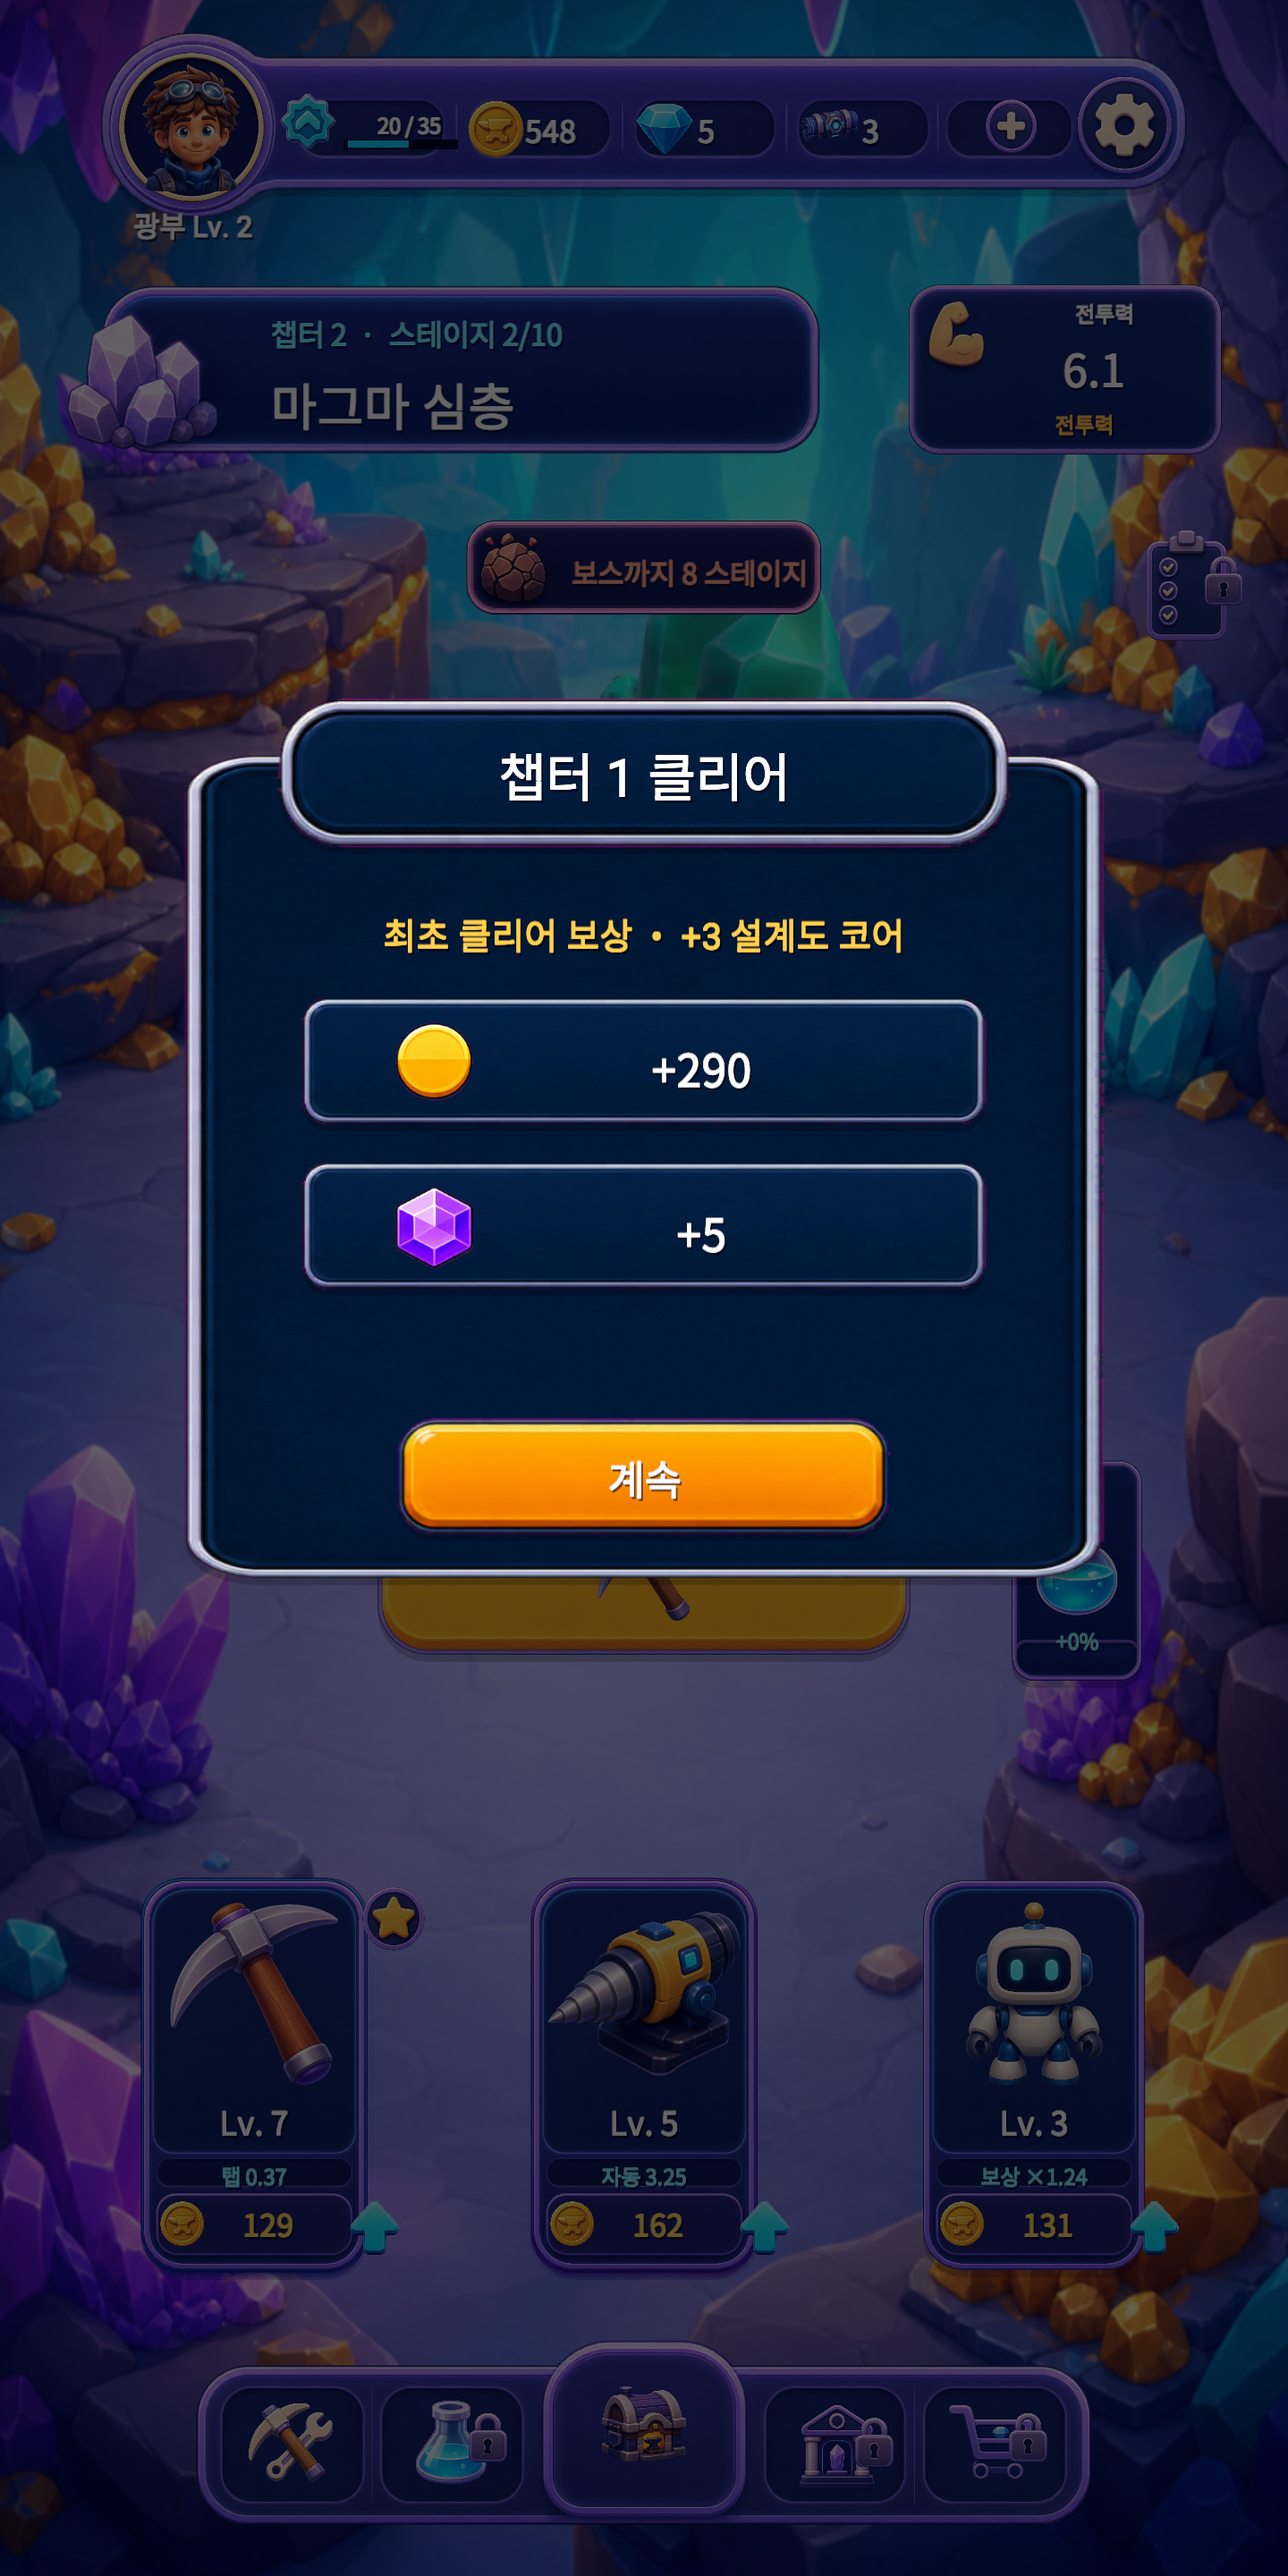
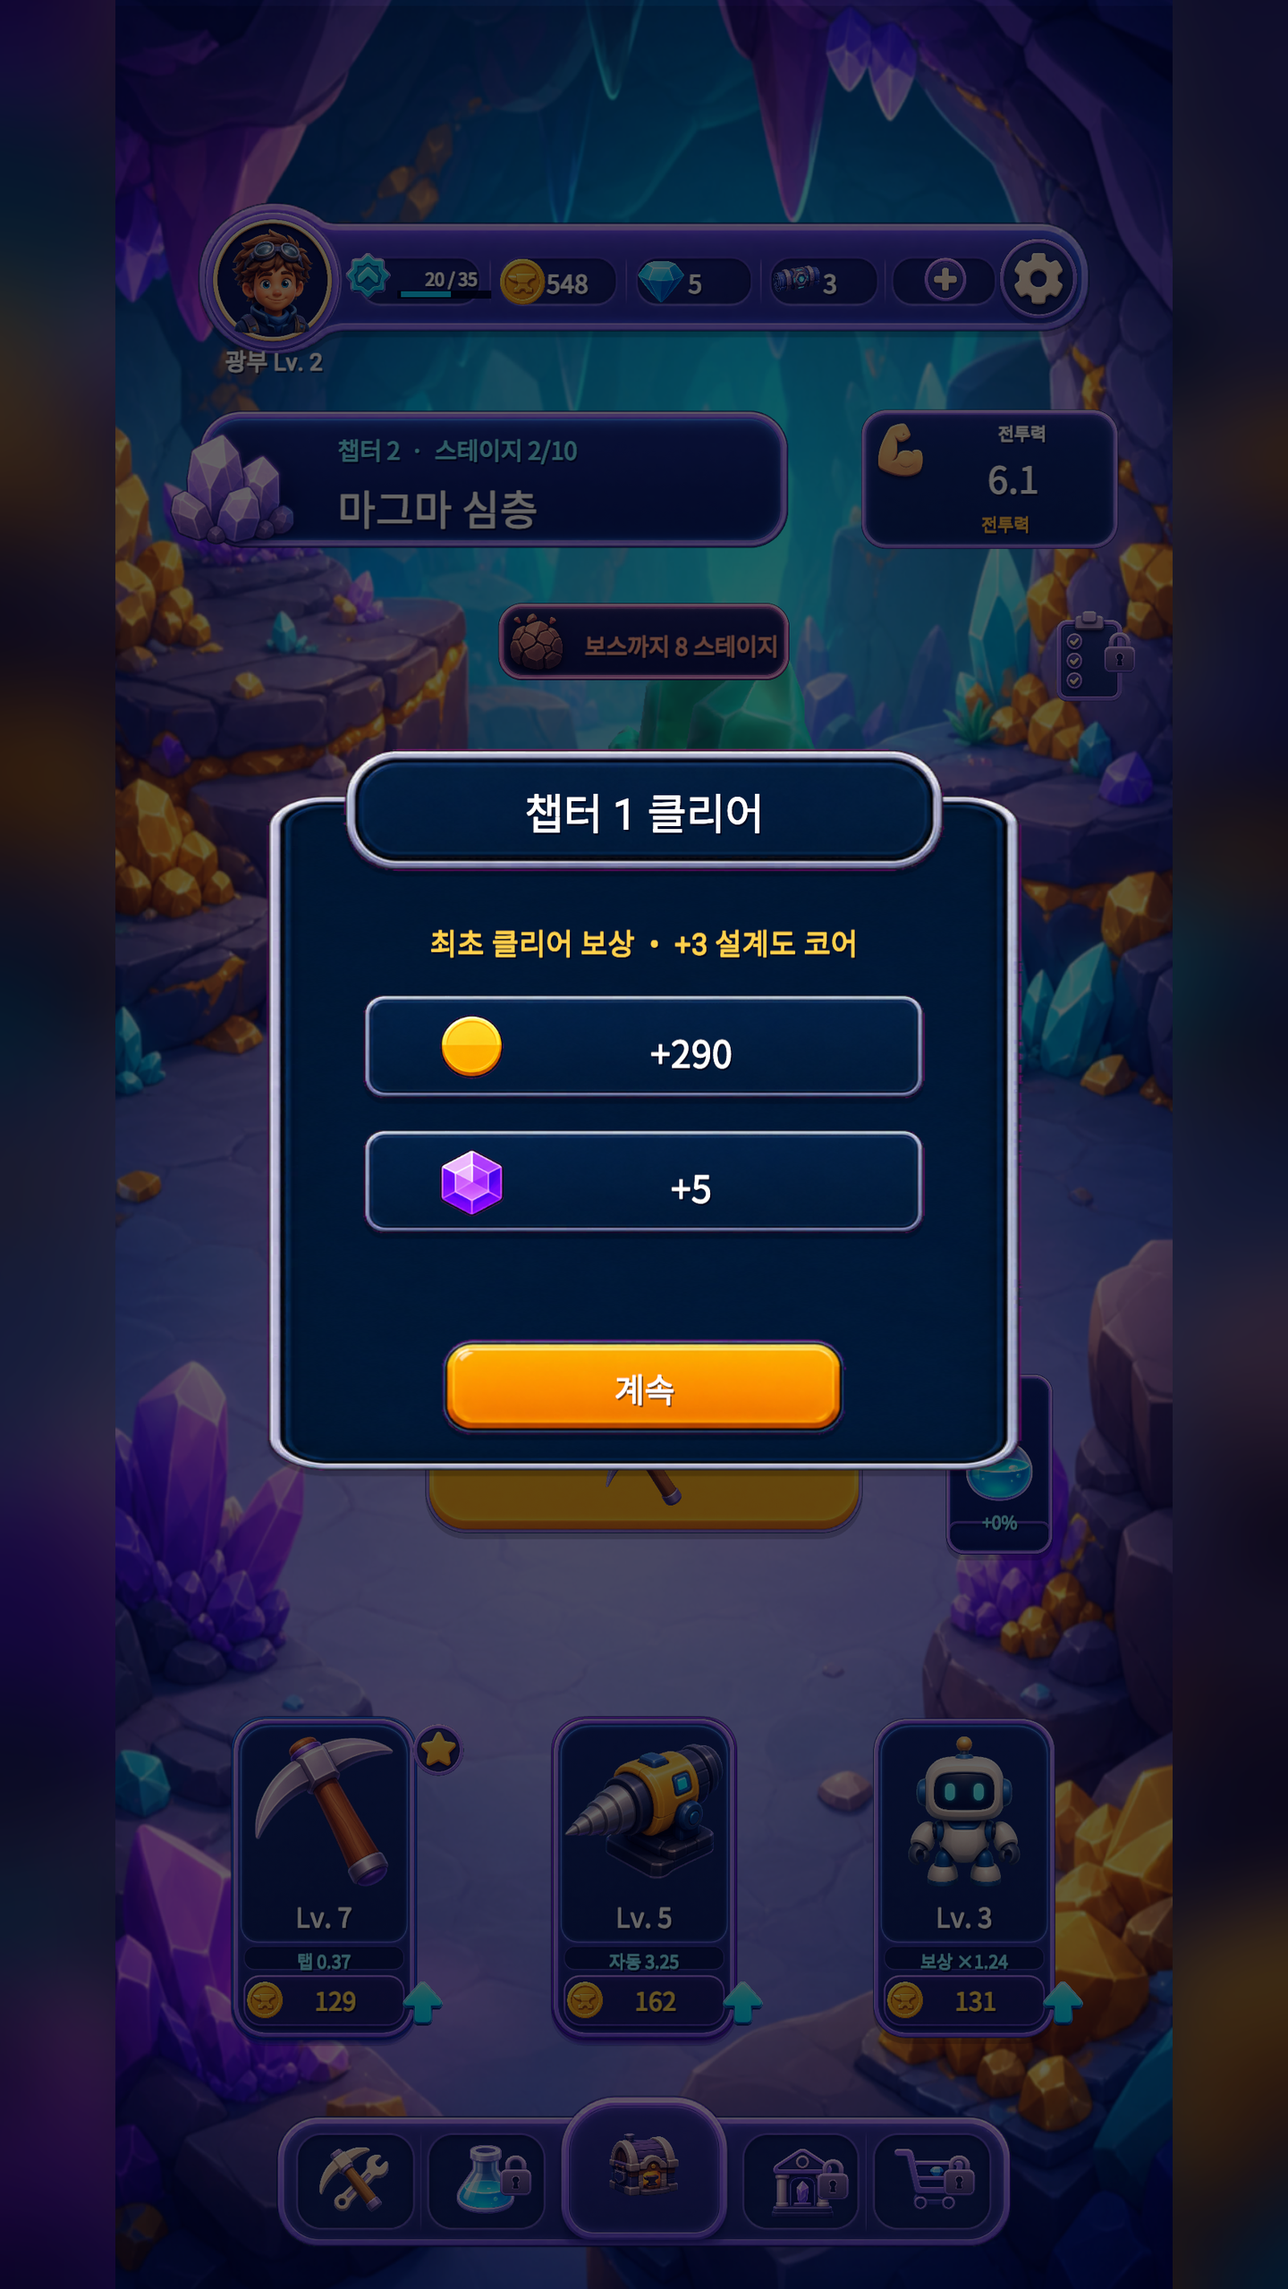
Rebuild the phone screenshots at exactly 9:16
The Play Console listing form states the ratio must be 16:9 or 9:16, while the
help page I worked from only gives the hard limit that the long edge cannot
exceed twice the short edge. Rather than argue which one is enforced, these are
now exactly 9:16 (1440x2560), which also satisfies the promotional-eligibility
note asking for three shots at 9:16 and 1080px or more.

Cropping to 9:16 from the 1440x3120 source would need 560px removed and the
bottom 320 of that is the whole navigation bar, so the frame is scaled to fit
the height and the 129px side margins carry a blurred, darkened cover crop of
the same shot. Stretching the outermost columns was tried first and left visible
horizontal banding.

Notes that the museum shot still shows the mystery-mineral icon beside "4 / 4",
since it was captured before that fix, so only the other four should go up until
it can be recaptured.

diff --git a/docs/store-listing.md b/docs/store-listing.md
@@ -137,9 +137,17 @@ Crack your first ore now.
 | 앱 아이콘 | 512×512 32비트 PNG, 1024KB 이하 | `app_icon_512.png` (229 KB) | 준비 완료 |
 | 정사각 런처 아이콘 | — | `app_icon_432_square.png` | 준비 완료 |
 | 그래픽 이미지(피처) | 1024×500 24비트 PNG(알파 없음) | `feature_graphic_1024x500.png` | 준비 완료 |
-| 휴대전화 스크린샷 | 최소 2장, 320~3840px, **긴 변이 짧은 변의 2배 이하** | `screenshot_01_mining` ~ `screenshot_05_settings` (1440×2880) | 준비 완료 |
+| 휴대전화 스크린샷 | 2~8장, 장당 최대 8MB, **비율 16:9 또는 9:16**, 320~3840px | `screenshot_01_mining` ~ `screenshot_05_settings` (1440×2560) | 준비 완료 |
 
-스크린샷 종횡비 근거: Play 공식 문서의 하드 제한은 "긴 변이 짧은 변의 2배를 넘을 수 없다"이다. 9:16은 추천작 선정 자격 기준의 *권장* 값이지 필수가 아니다. 원본 기기 캡처 1440×3120은 2.167:1로 하드 제한을 넘기 때문에, 아바타 위 배경만 있는 상단 240px을 잘라 1440×2880(정확히 2.0:1)으로 맞췄다. UI는 하나도 잘리지 않았다.
+스크린샷 규격 확정 경위: 처음에는 Play 도움말의 하드 제한("긴 변이 짧은 변의 2배 이하")만 보고 1440×2880(2.0:1)으로 만들었다. 그런데 Play Console 등록정보 폼은 비율을 **16:9 또는 9:16**으로 명시한다. 어느 쪽이 검증되는지 따지는 대신 정확히 9:16(1440×2560)으로 맞췄고, 그러면 프로모션 자격 조건("4개 이상 중 3개는 16:9 또는 9:16에 1,080px 이상")도 함께 충족한다.
+
+1440×3120 원본에서 9:16으로 자르려면 560px을 빼야 하는데 그중 하단 320px이 하단 내비게이션 바 전체다. 그래서 전체 화면을 높이에 맞춰 축소(1182×2560)하고 좌우 129px 여백은 같은 화면을 cover 스케일·블러·감광한 배경으로 채웠다. 처음 시도한 가장자리 컬럼 늘리기는 가로 줄무늬가 눈에 띄어 기각했다. UI 손실은 0이다.
+
+필수 장수는 **2장**이다. 폼 안내문의 "4개 이상 + 최소 3개는 9:16" 조건은 프로모션(추천) 자격용이다.
+
+태블릿 스크린샷은 불필요하다. 필수 문구가 "휴대전화나 태블릿 스크린샷을 2개 이상"이므로 휴대전화만 채우면 충족된다. 세로 고정 폰 전용 게임이다.
+
+**업로드 시 주의**: `screenshot_04_museum.png`은 수정 전 빌드(#6) 캡처라 도감 완성(`4 / 4`) 옆에 미발견 `?` 아이콘이 찍혀 있다. 이 결함은 이후 수정됐다. 기기 재연결 후 재캡처 전까지는 나머지 4장만 올린다(프로모션 자격 4장 조건은 그대로 충족).
 
 인게임 런처 아이콘 (2026-08-08 해결):
 
